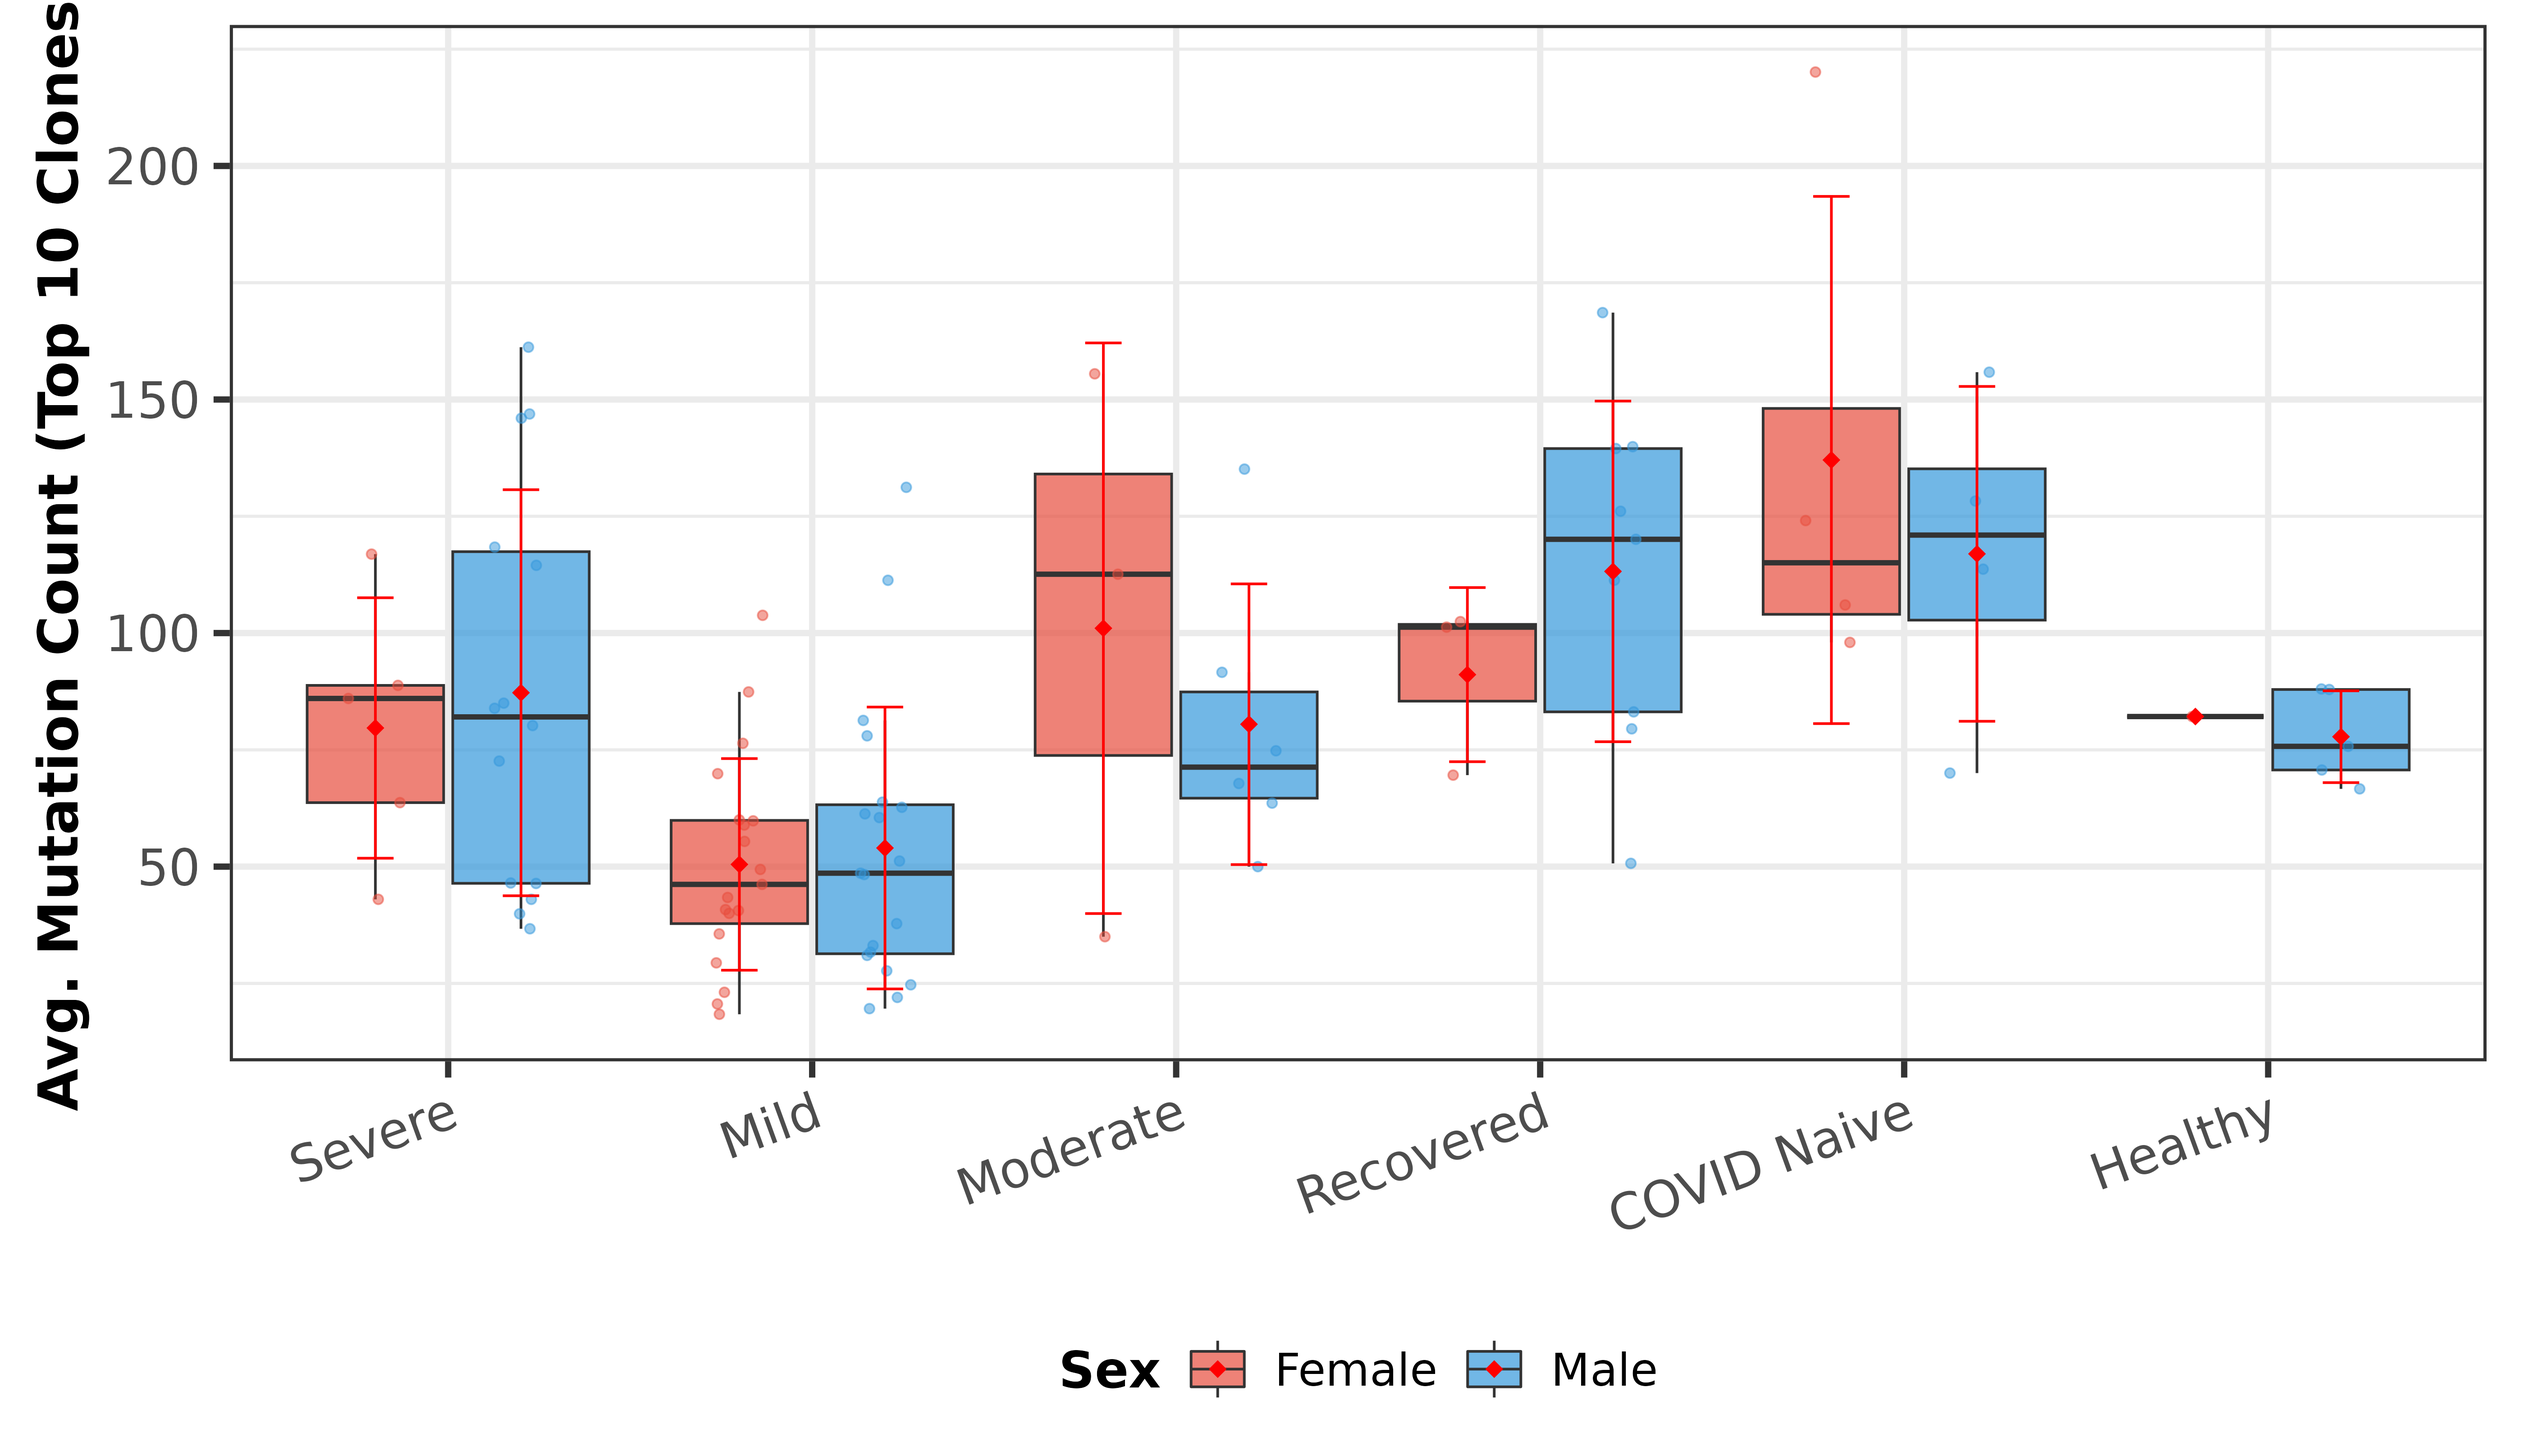
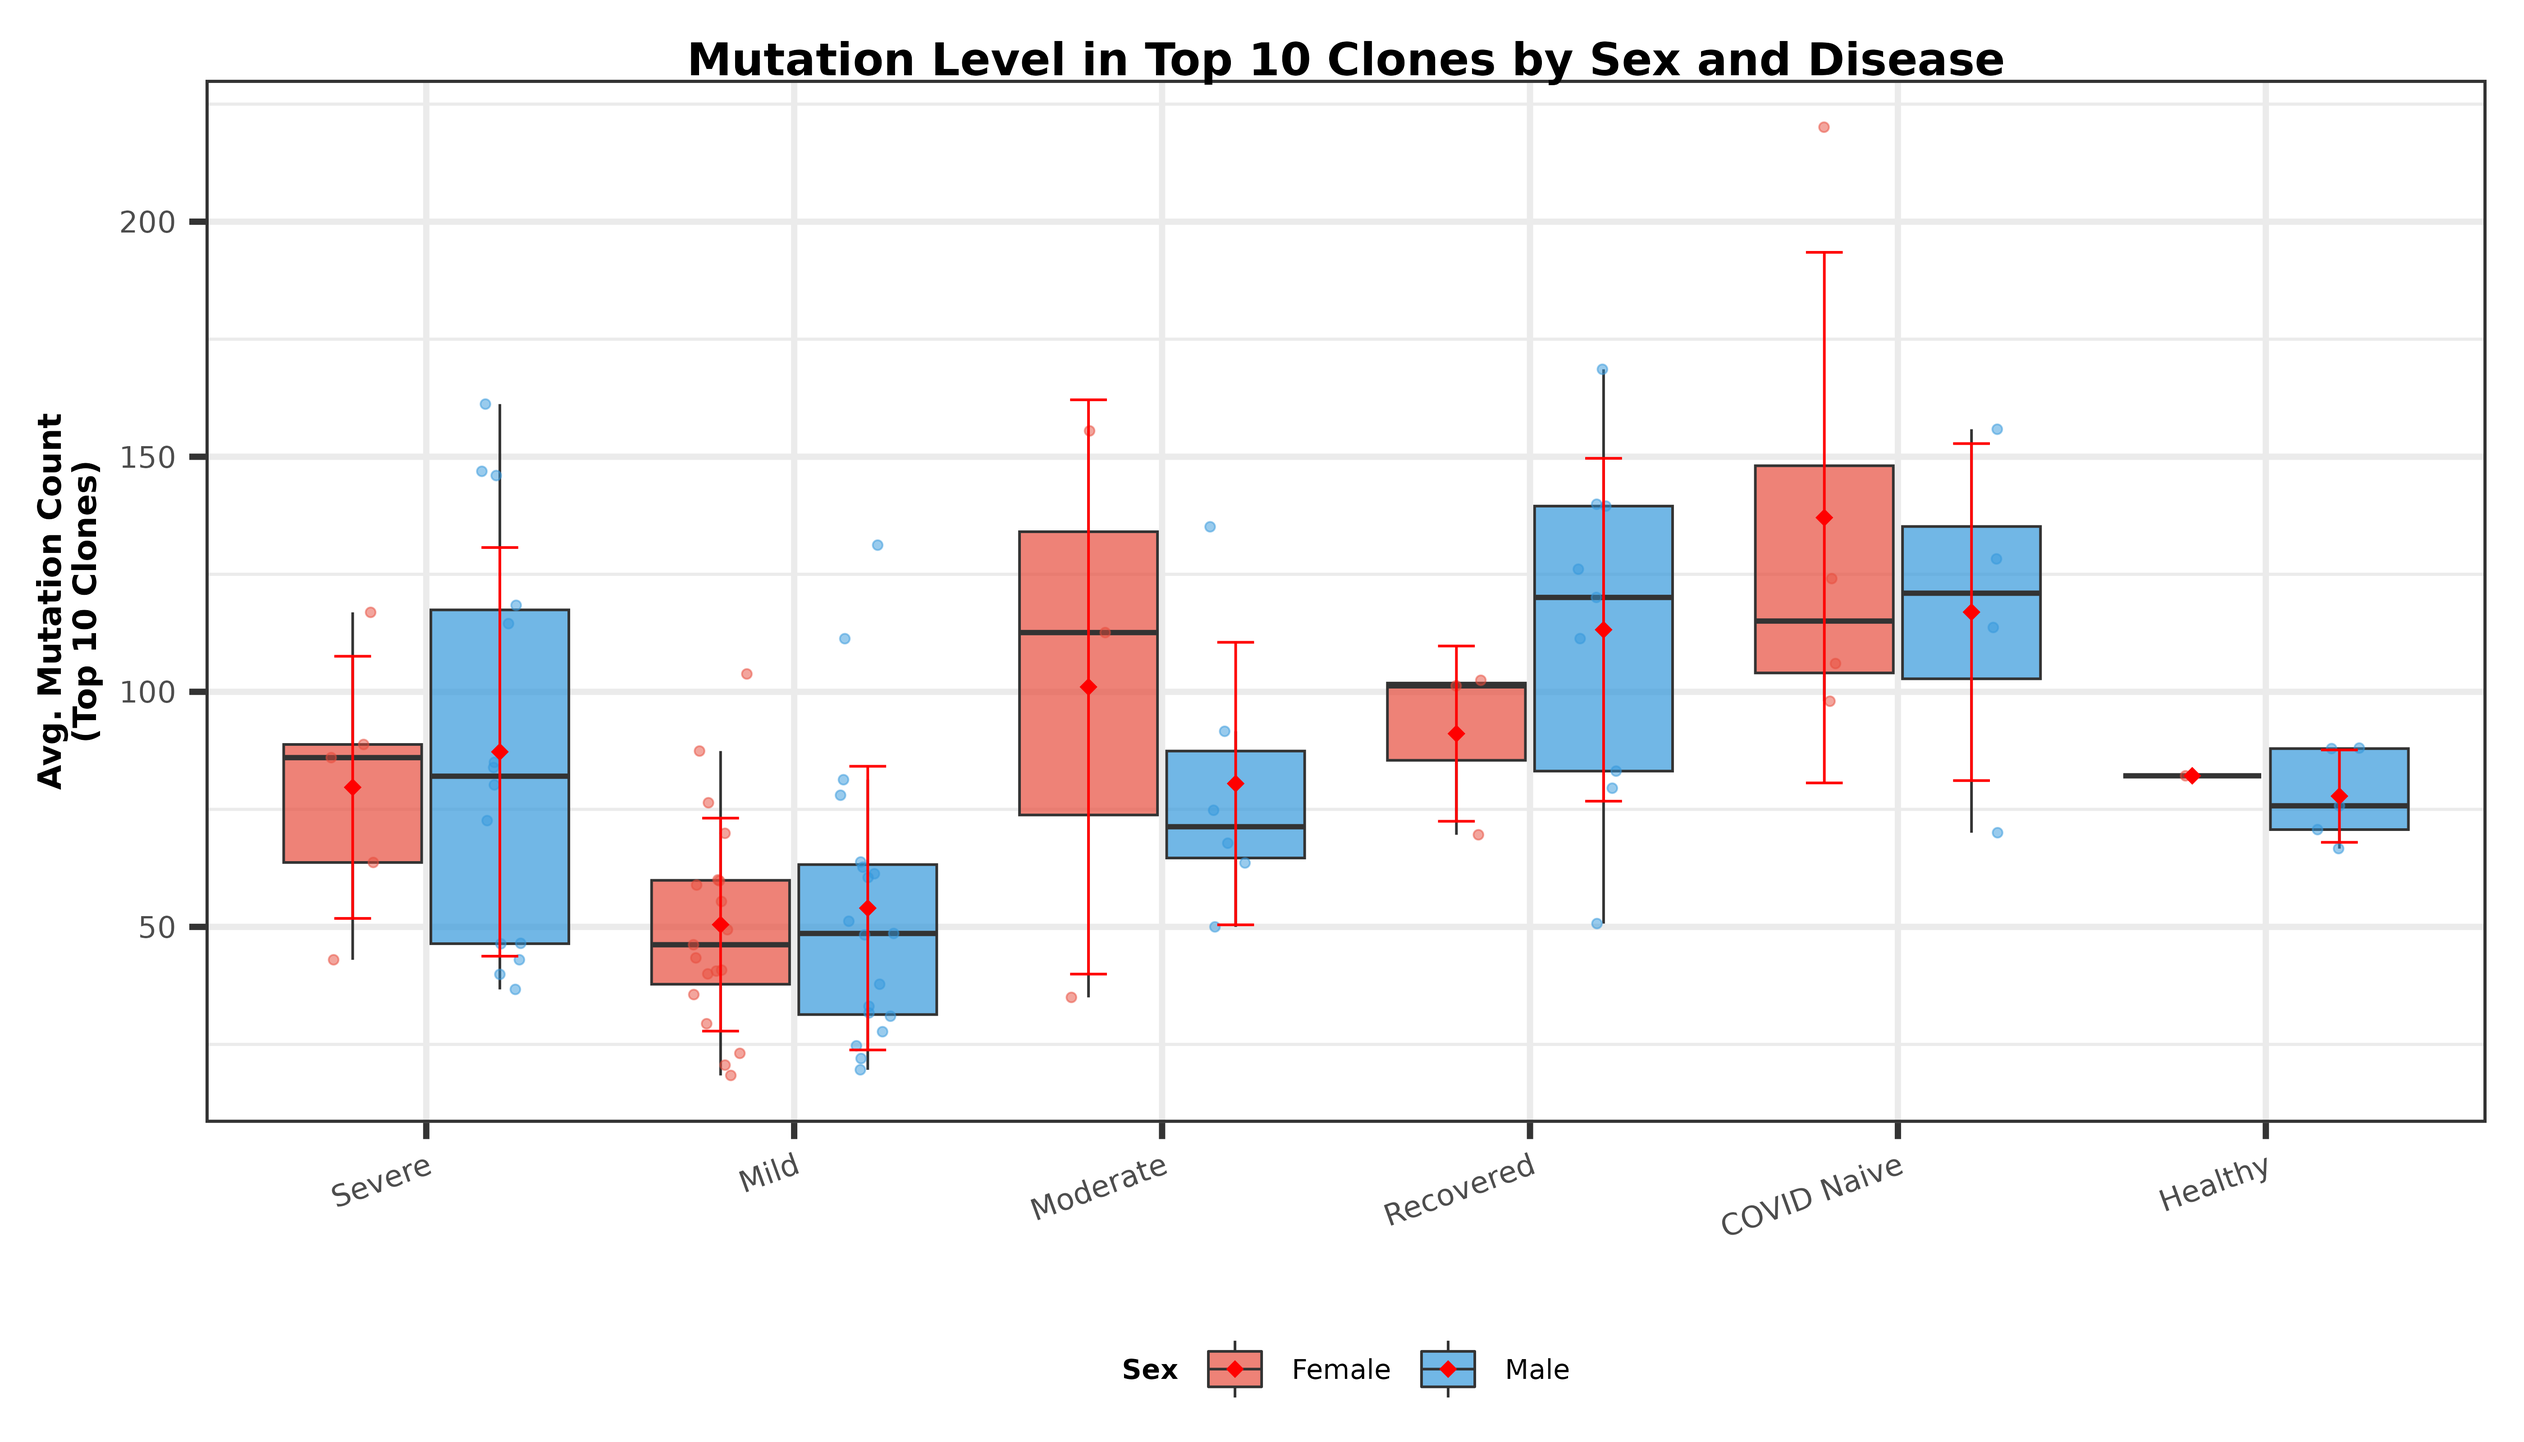
Improve text readability across all figures
R figures (disease_figures.R):
- Add titles to Figs 7, 8, 13, 14 (were missing due to element_blank)
- Fix y-axis label clipping by wrapping long labels
- Increase font sizes and add plot margins

Python figures:
- age_gender_confounders_fig.py: increase subtitle, legend, axis font sizes
- within_subject_fig.py: fix title/subtitle overlap, increase font sizes
- Regenerate within-subject clone count with larger text

Claude-Session: https://claude.ai/code/session_01D55fsgxxDUfDTuPfRhF34U

diff --git a/immunedb_STATS_API/clonal_analysis/age_gender_confounders_fig.py b/immunedb_STATS_API/clonal_analysis/age_gender_confounders_fig.py
@@ -155,9 +155,9 @@ metrics = [
 # ============================================================
 fig, axes = plt.subplots(1, 3, figsize=(21, 7))
 fig.suptitle("Clonal Metrics vs Age by Disease Stage (Blood Only)",
-             fontsize=18, fontweight="bold", y=0.98)
-fig.text(0.5, 0.93, "Each dot = one subject, colored by disease stage",
-         ha="center", fontsize=13, color="gray")
+             fontsize=20, fontweight="bold", y=1.0)
+fig.text(0.5, 0.94, "Each dot = one subject, colored by disease stage",
+         ha="center", fontsize=14, color="gray")
 
 for idx, (metric_name, metric_dict) in enumerate(metrics):
     ax = axes[idx]
@@ -174,16 +174,16 @@ for idx, (metric_name, metric_dict) in enumerate(metrics):
                        zorder=3)
     ax.set_xlabel("Age", fontsize=13, fontweight="bold")
     ax.set_ylabel(metric_name, fontsize=13, fontweight="bold")
+    ax.tick_params(axis='both', labelsize=11)
     panel = chr(65 + idx)
     ax.set_title(f"{panel}. {metric_name} vs Age", fontsize=14, fontweight="bold", loc="left")
     ax.spines["top"].set_visible(False)
     ax.spines["right"].set_visible(False)
     if idx == 0:
         ax.set_yscale("log")
-    if idx == 2:
-        ax.legend(fontsize=8, loc="upper right")
+    ax.legend(fontsize=11, loc="upper right")
 
-plt.tight_layout(rect=[0, 0, 1, 0.90])
+plt.tight_layout(rect=[0, 0, 1, 0.88])
 plt.savefig("plots/24_metrics_vs_age.png", dpi=400, bbox_inches="tight", facecolor="white")
 plt.close()
 print("Saved: 24_metrics_vs_age.png")
@@ -193,9 +193,9 @@ print("Saved: 24_metrics_vs_age.png")
 # ============================================================
 fig, axes = plt.subplots(1, 3, figsize=(21, 7))
 fig.suptitle("Clonal Metrics by Gender and Disease Stage (Blood Only)",
-             fontsize=18, fontweight="bold", y=0.98)
-fig.text(0.5, 0.93, "Male vs Female within each disease stage",
-         ha="center", fontsize=13, color="gray")
+             fontsize=20, fontweight="bold", y=1.0)
+fig.text(0.5, 0.94, "Male vs Female within each disease stage",
+         ha="center", fontsize=14, color="gray")
 
 rng = np.random.default_rng(42)
 
@@ -240,10 +240,11 @@ for idx, (metric_name, metric_dict) in enumerate(metrics):
                        edgecolors="white", linewidth=0.3)
 
     ax.set_xticks(tick_positions)
-    ax.set_xticklabels(tick_labels, fontsize=9, fontweight="bold", rotation=25, ha="right")
+    ax.set_xticklabels(tick_labels, fontsize=11, fontweight="bold", rotation=25, ha="right")
+    ax.tick_params(axis='y', labelsize=11)
     panel = chr(65 + idx)
     ax.set_title(f"{panel}. {metric_name}", fontsize=14, fontweight="bold", loc="left")
-    ax.set_ylabel(metric_name, fontsize=12, fontweight="bold")
+    ax.set_ylabel(metric_name, fontsize=13, fontweight="bold")
     ax.spines["top"].set_visible(False)
     ax.spines["right"].set_visible(False)
     if idx == 0:
@@ -253,9 +254,9 @@ for idx, (metric_name, metric_dict) in enumerate(metrics):
 from matplotlib.patches import Patch
 legend_elements = [Patch(facecolor="gray", alpha=0.8, label="Male"),
                    Patch(facecolor="gray", alpha=0.6, hatch="///", label="Female")]
-axes[2].legend(handles=legend_elements, fontsize=9, loc="upper right")
+axes[2].legend(handles=legend_elements, fontsize=12, loc="upper right")
 
-plt.tight_layout(rect=[0, 0, 1, 0.90])
+plt.tight_layout(rect=[0, 0, 1, 0.88])
 plt.savefig("plots/25_metrics_vs_gender.png", dpi=400, bbox_inches="tight", facecolor="white")
 plt.close()
 print("Saved: 25_metrics_vs_gender.png")

diff --git a/immunedb_STATS_API/clonal_analysis/within_subject_fig.py b/immunedb_STATS_API/clonal_analysis/within_subject_fig.py
@@ -113,10 +113,10 @@ fig, axes = plt.subplots(nrows, ncols, figsize=(16, 5 * nrows))
 if nrows == 1:
     axes = [axes]
 fig.suptitle("Within-Subject Comparison: Clone Count by Tissue (HC1)",
-             fontsize=20, fontweight="bold", y=0.98)
-fig.text(0.5, 0.94,
+             fontsize=20, fontweight="bold", y=1.02)
+fig.text(0.5, 0.97,
          "HC1 healthy subjects — number of distinct clones per tissue",
-         ha="center", fontsize=13, color="gray")
+         ha="center", fontsize=14, color="gray")
 
 for idx, subj in enumerate(hc1_subjects):
     ax = axes[idx // ncols][idx % ncols]
@@ -140,7 +140,7 @@ for idx, subj in enumerate(hc1_subjects):
 for idx in range(len(hc1_subjects), nrows * ncols):
     axes[idx // ncols][idx % ncols].set_visible(False)
 
-plt.tight_layout(rect=[0, 0, 1, 0.92])
+plt.tight_layout(rect=[0, 0, 1, 0.93])
 plt.savefig("plots/14_within_subject_clone_count.png", dpi=400, bbox_inches="tight", facecolor="white")
 plt.close()
 print("Saved: 14_within_subject_clone_count.png")
@@ -172,9 +172,9 @@ fig, axes = plt.subplots(1, len(compare_tissues), figsize=(5 * len(compare_tissu
 if len(compare_tissues) == 1:
     axes = [axes]
 fig.suptitle(f"Cross-Study Tissue Comparison: HC1 (D207) vs GT1 ({gt1_best})",
-             fontsize=18, fontweight="bold", y=0.98)
-fig.text(0.5, 0.93, "Clone size distribution in matched tissues across two studies",
-         ha="center", fontsize=13, color="gray")
+             fontsize=20, fontweight="bold", y=1.02)
+fig.text(0.5, 0.96, "Clone size distribution in matched tissues across two studies",
+         ha="center", fontsize=14, color="gray")
 
 for i, tissue in enumerate(compare_tissues):
     ax = axes[i]
@@ -210,7 +210,7 @@ for i, tissue in enumerate(compare_tissues):
     ax.spines["top"].set_visible(False)
     ax.spines["right"].set_visible(False)
 
-plt.tight_layout(rect=[0, 0, 1, 0.90])
+plt.tight_layout(rect=[0, 0, 1, 0.91])
 plt.savefig("plots/15_within_subject_clone_size_cross_study.png", dpi=400, bbox_inches="tight", facecolor="white")
 plt.close()
 print("Saved: 15_within_subject_clone_size_cross_study.png")
@@ -271,9 +271,9 @@ ax.set_xticklabels(compare_all_tissues, fontsize=14, fontweight="bold")
 ax.set_ylabel("Median Clone Size per Subject (log scale)", fontsize=14, fontweight="bold")
 ax.set_xlabel("Tissue", fontsize=14, fontweight="bold")
 ax.set_title("Cross-Study Tissue Comparison: Median Clone Size",
-             fontsize=18, fontweight="bold")
-ax.text(0.5, 1.02, "Each dot = one subject's median clone size in that tissue. Bar = group median.",
-        transform=ax.transAxes, ha="center", fontsize=12, color="gray")
+             fontsize=20, fontweight="bold", pad=35)
+ax.text(0.5, 1.06, "Each dot = one subject's median clone size in that tissue. Bar = group median.",
+        transform=ax.transAxes, ha="center", fontsize=13, color="gray")
 ax.yaxis.set_major_formatter(ticker.FuncFormatter(lambda x, _: f"{x:,.0f}"))
 ax.spines["top"].set_visible(False)
 ax.spines["right"].set_visible(False)
